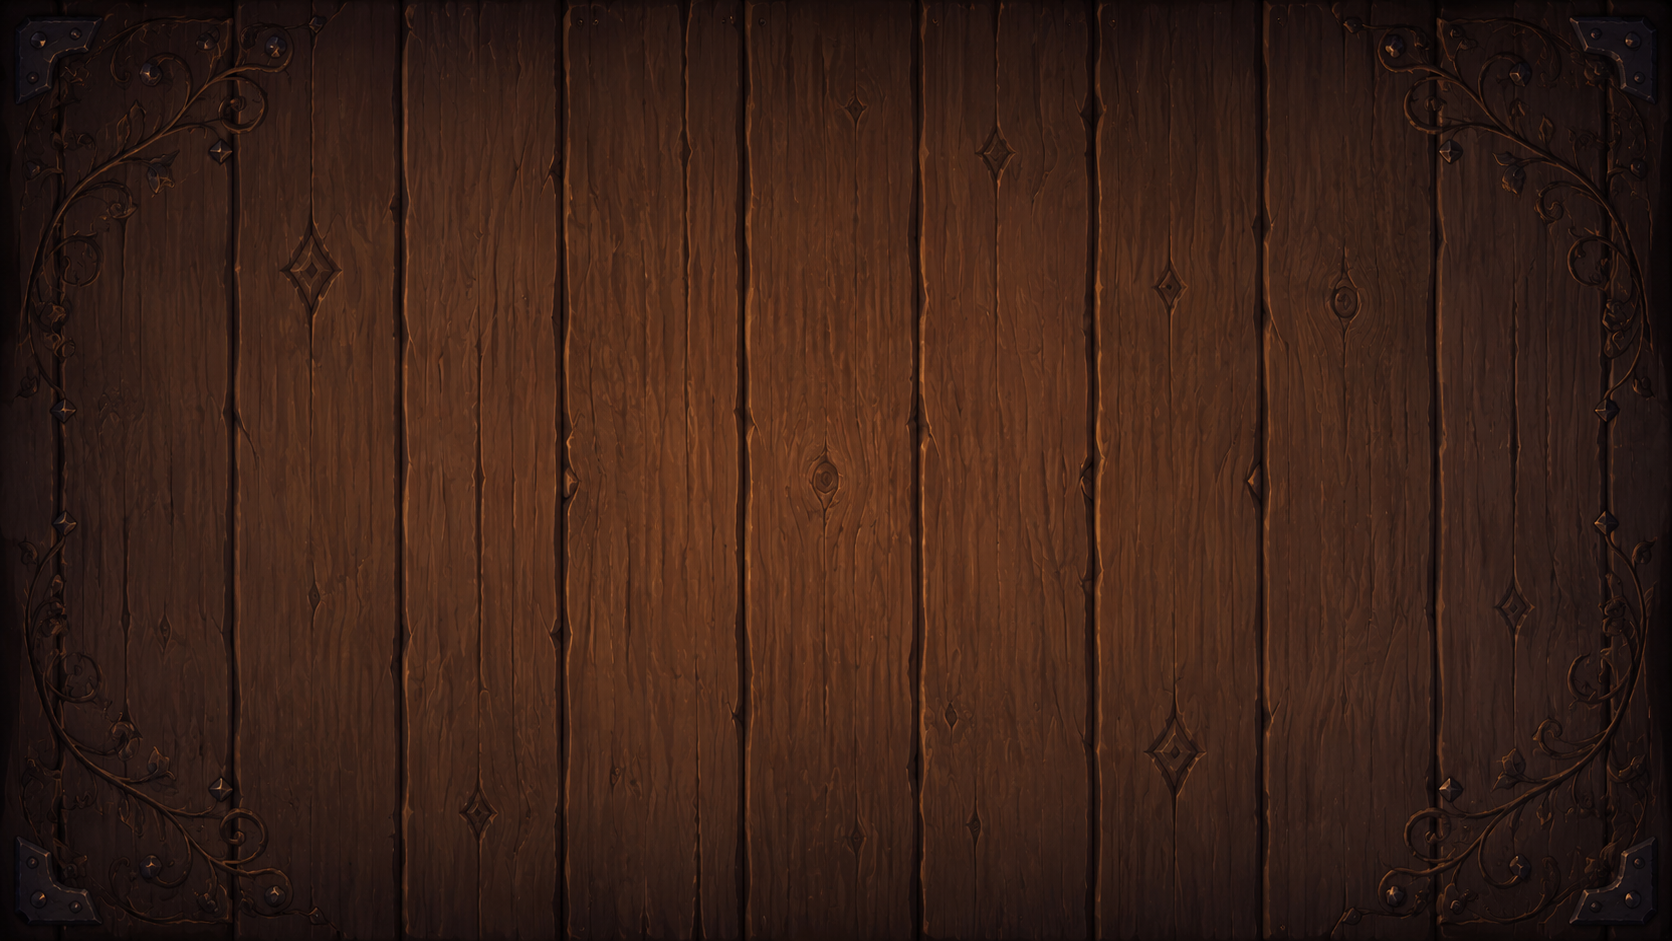
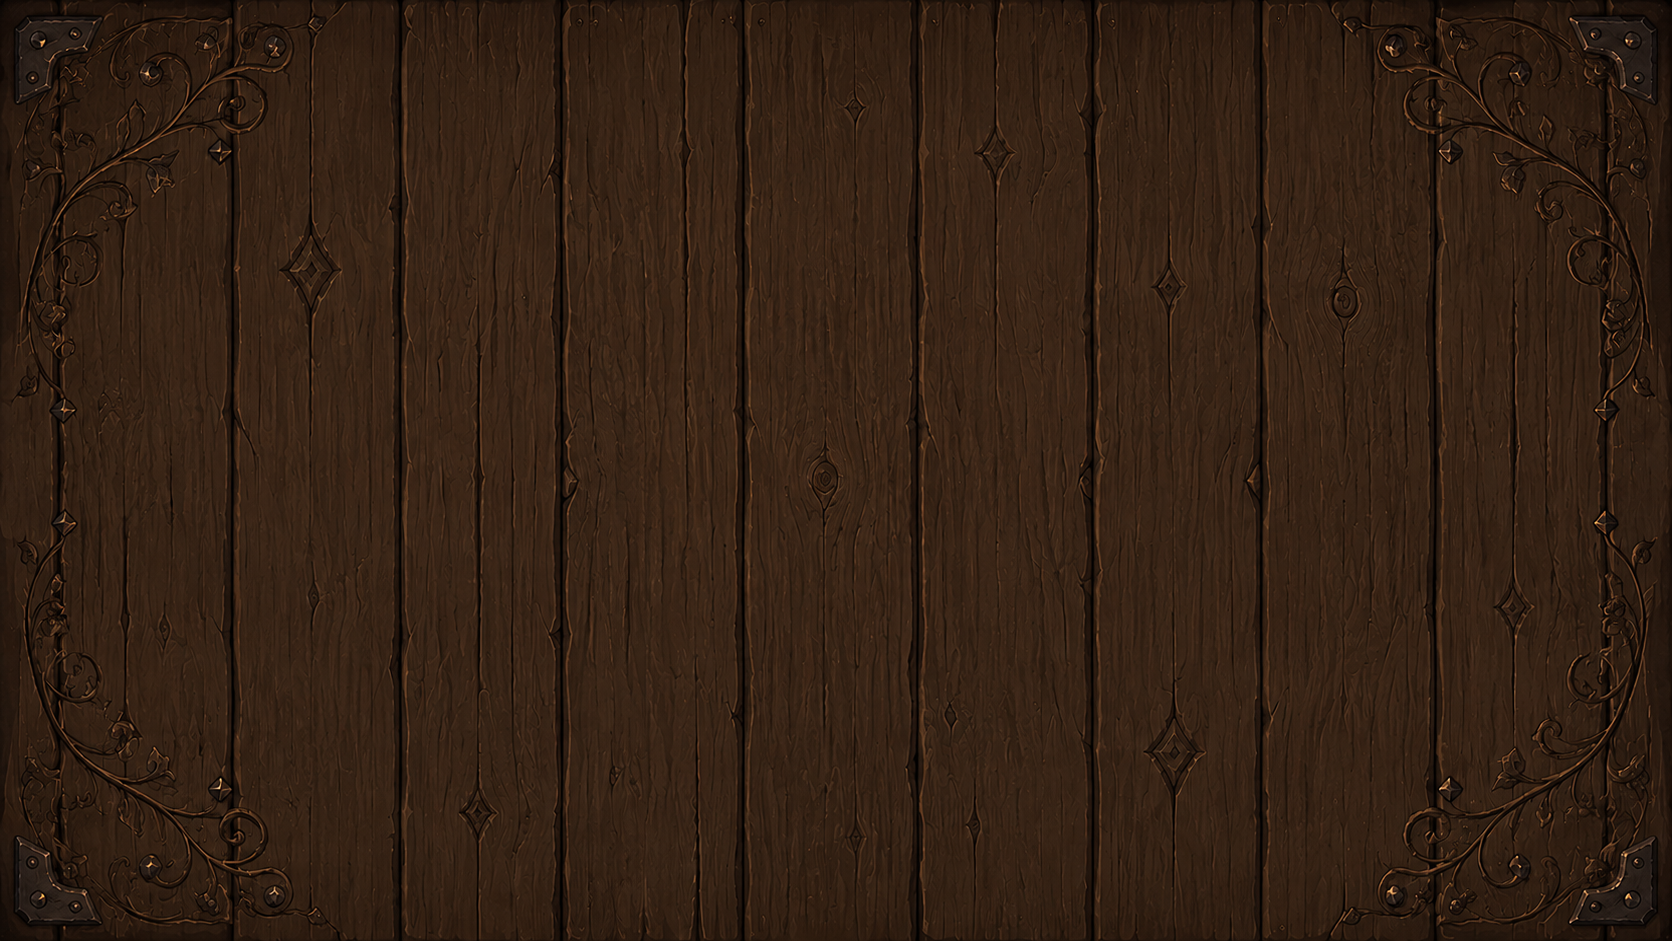
Wood background: swap to the new darker, richer plank illustration (public/start-bg.png) and switch from multiply to a translucent #4e3624 wash so the deeper image lifts up to our brand brown while keeping the texture and metal-filigree corners visible.

diff --git a/src/app/globals.css b/src/app/globals.css
@@ -107,20 +107,22 @@ body {
   background-repeat: no-repeat, no-repeat;
 }
 
-/* Start-screen wood — uses an illustrated wood backdrop (with metal
-   filigree corners) at cover size. The image is already very close to
-   our #4e3624 brown; a subtle multiply with the brown nudges it the
-   rest of the way and keeps the shade consistent with the rest of
-   the app. Apply on a relative parent: the textured layer is the
-   element itself (NOT a child), so content sits on top normally.
-   Apply alongside bg-home-bg as a fallback. */
+/* Wood backdrop — illustrated dark wood planks with metal-filigree
+   corners. The image centre is darker than our brand brown
+   (#372315 vs #4e3624), so a translucent brand-brown wash lifts the
+   tone up to #4e3624 while keeping the wood texture and decorative
+   corners visible. Same approach as the reflection / consultation
+   backgrounds (overlay tint rather than multiply). */
 .wood-desk-startscreen {
   background-color: #4e3624;
-  background-image: url("/start-bg.png");
-  background-size: cover;
-  background-position: center;
-  background-repeat: no-repeat;
-  background-blend-mode: multiply;
+  background-image:
+    /* Brand-brown wash that nudges the image toward our shade. */
+    linear-gradient(rgba(78, 54, 36, 0.45), rgba(78, 54, 36, 0.45)),
+    /* Illustrated wood backdrop with metal-filigree corners. */
+    url("/start-bg.png");
+  background-size: 100% 100%, cover;
+  background-position: center, center;
+  background-repeat: no-repeat, no-repeat;
 }
 
 /* Cartoony wood overlay — uses an illustrated wood texture image as